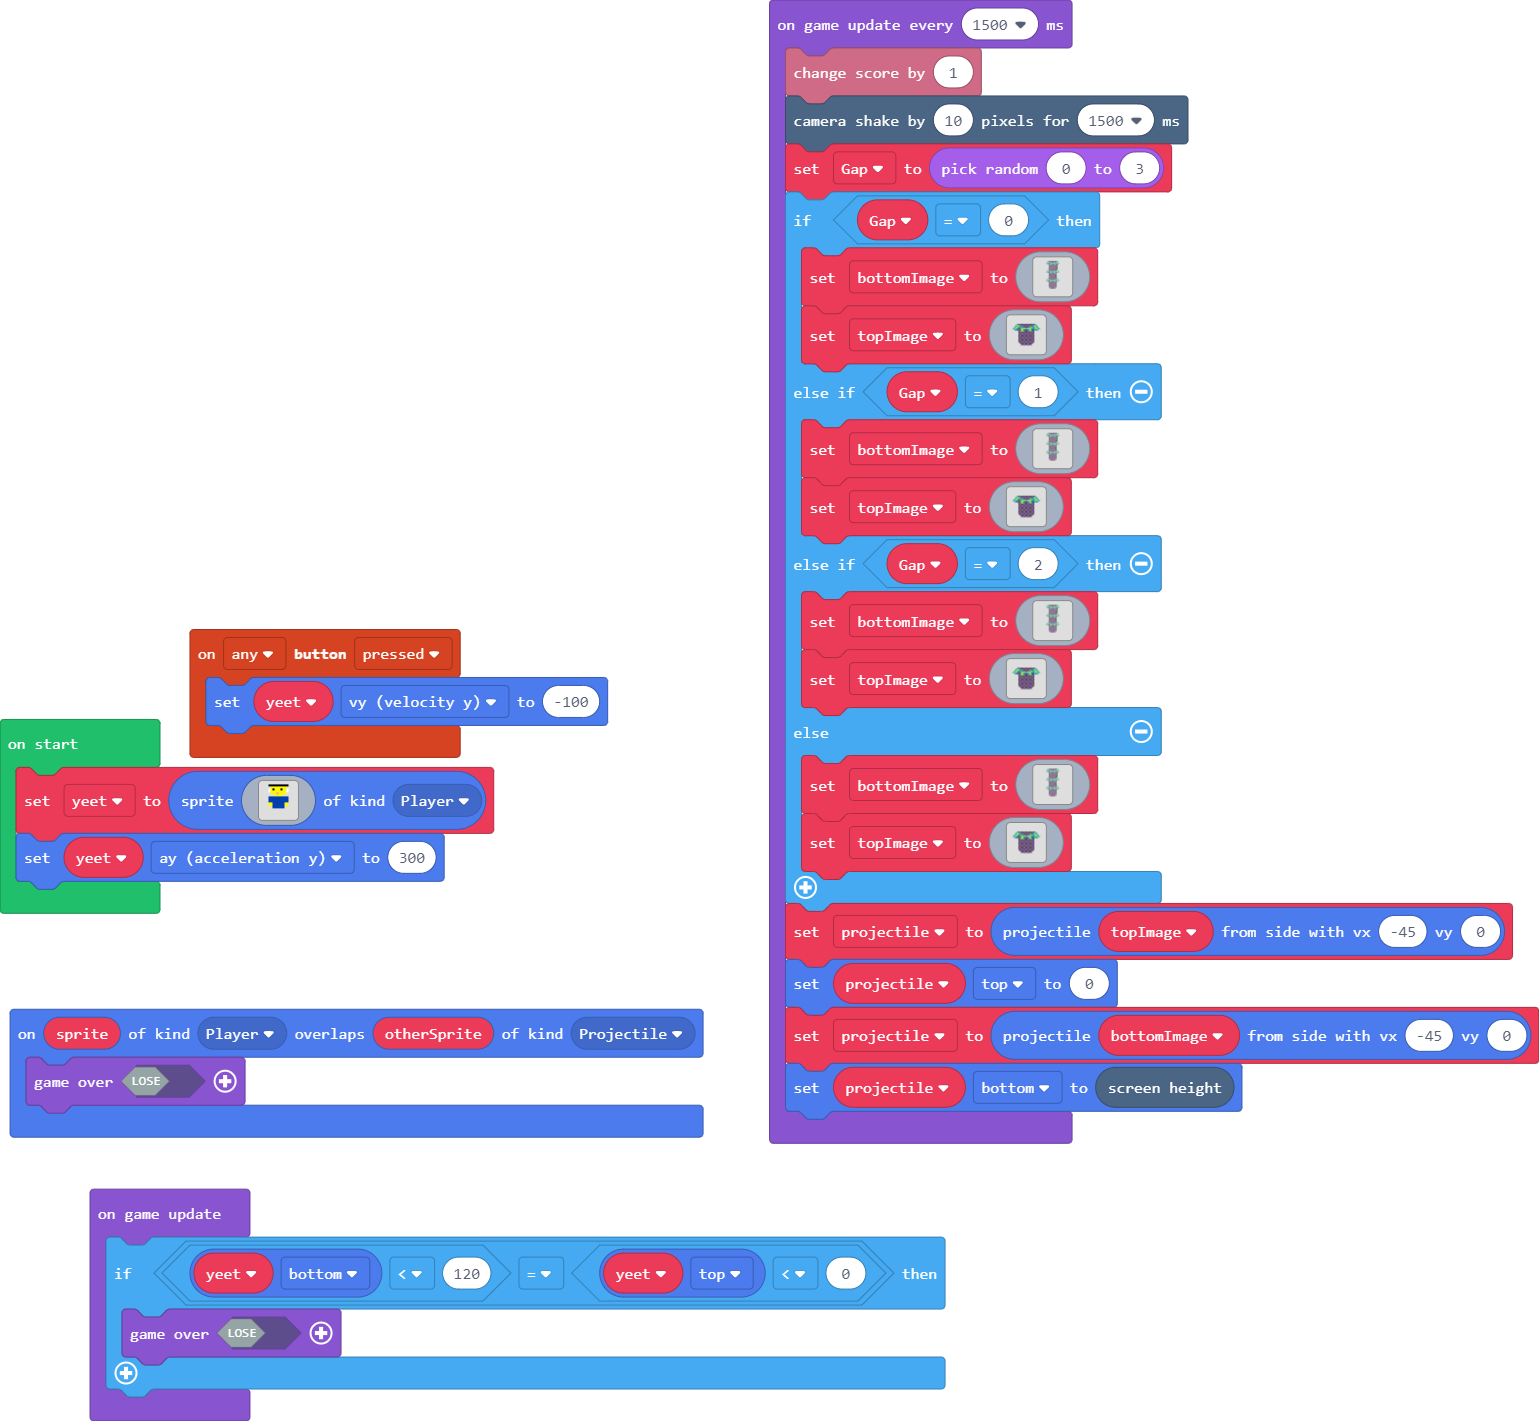
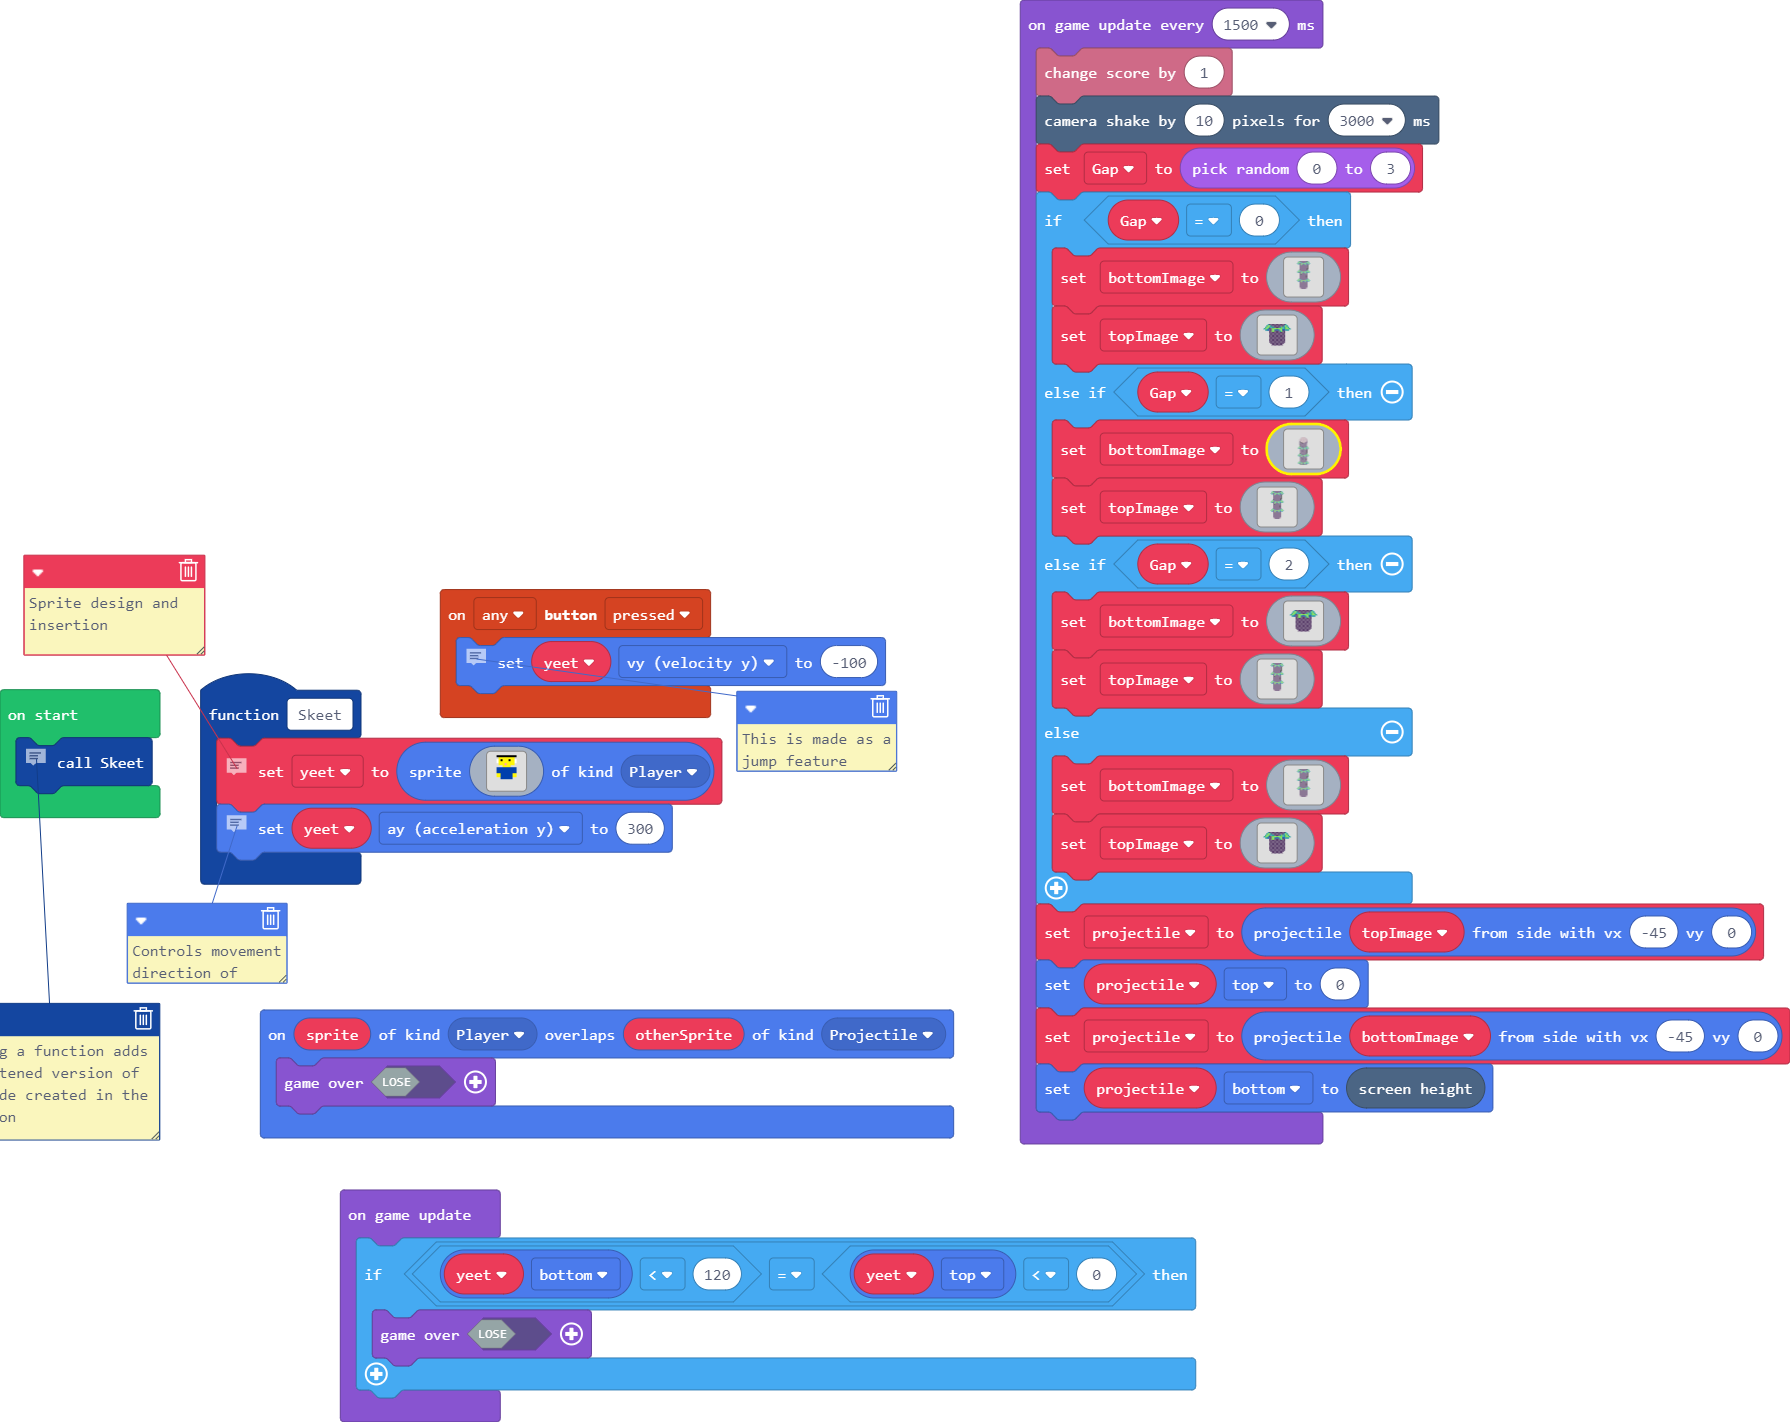
Update main.blocks, main.ts

diff --git a/main.ts b/main.ts
@@ -1,15 +1,6 @@
-sprites.onOverlap(SpriteKind.Player, SpriteKind.Projectile, function (sprite, otherSprite) {
-    game.over(false)
-})
-controller.anyButton.onEvent(ControllerButtonEvent.Pressed, function () {
-    yeet.vy = -100
-})
-let projectile: Sprite = null
-let topImage: Image = null
-let bottomImage: Image = null
-let Gap = 0
-let yeet: Sprite = null
-yeet = sprites.create(img`
+function Skeet () {
+    // Sprite design and insertion
+    yeet = sprites.create(img`
 . . . f f f f f f f f f f . . . 
 . . . . 5 5 5 5 5 5 5 5 . . . . 
 . . . 1 5 f 5 5 5 f 5 5 1 . . . 
@@ -27,10 +18,27 @@ yeet = sprites.create(img`
 . . . . . . . . . . . . . . . . 
 . . . . . . . . . . . . . . . . 
 `, SpriteKind.Player)
-yeet.ay = 300
+    // Controls movement direction of sprite
+    yeet.ay = 300
+}
+sprites.onOverlap(SpriteKind.Player, SpriteKind.Projectile, function (sprite, otherSprite) {
+    game.over(false)
+})
+controller.anyButton.onEvent(ControllerButtonEvent.Pressed, function () {
+    // This is made as a jump feature
+    yeet.vy = -100
+})
+let projectile: Sprite = null
+let topImage: Image = null
+let bottomImage: Image = null
+let Gap = 0
+let yeet: Sprite = null
+// Calling a function adds a shortened version of the
+// code created in the function
+Skeet()
 game.onUpdateInterval(1500, function () {
     info.changeScoreBy(1)
-    scene.cameraShake(10, 1500)
+    scene.cameraShake(10, 3000)
     Gap = Math.randomRange(0, 3)
     if (Gap == 0) {
         bottomImage = img`
@@ -103,6 +111,64 @@ game.onUpdateInterval(1500, function () {
 `
     } else if (Gap == 1) {
         bottomImage = img`
+. . . . . . . . . . . . . . . . . . . . . . . . 
+. . . . . . . . . . . . . . . . . . . . . . . . 
+. . . . . . . . . . . . . . . . . . . . . . . . 
+. . . . . . . . . . . . . . . . . . . . . . . . 
+. . . . . . . . . . . . . . . . . . . . . . . . 
+. . . . . . . . . . . . . . . . . . . . . . . . 
+. . . . . . . . . . . . . . . . . . . . . . . . 
+. . . . . . . . . . b b b b . . . . . . . . . . 
+. . . . . . . . b b d d d d b b . . . . . . . . 
+. . . . . . . b d d b b b b d d b . . . . . . . 
+. . . . . . b d b b d d d d b b d b . . . . . . 
+. . . . . b d b b d b b b b d b b d b . . . . . 
+. . . . . b d b d b d d d d b d b d b . . . . . 
+. . . . . c d b b d b b b b d b b d c . . . . . 
+. . . . . c b d b b d d d d b b d b c . . . . . 
+. . . . . c f b d d b b b b d d b c c . . . . . 
+. . . . . c c f f b d d d d b c c c c . . . . . 
+. . . . . c c c c f f c c c c c c c . . . . . . 
+. . . . . c c c c c c c c c c c c c . . . . . . 
+. . . . . c c c c c c c c c c c c c . . . . . . 
+. . . . . f c c c c c c c c c c c c . . . . . . 
+. . . . . c c c c c c c c c c c c c . . . . . . 
+. . . . . . f c c c c c c c c c c c . . . . . . 
+. . . . . 6 f c c c c c c c c c c c 6 . . . . . 
+. . . . 6 7 7 6 c c c c c c c c c 6 7 6 . . . . 
+. . . 6 7 7 7 6 6 6 c c c c 6 6 6 6 7 7 6 . . . 
+. . 6 7 7 6 8 c 6 7 7 6 6 7 7 7 6 6 7 7 7 6 . . 
+. . . 6 6 8 c c 7 7 6 8 8 6 7 7 8 8 6 6 6 . . . 
+. . . . . . c c 7 7 c c c c 7 7 c c c c . . . . 
+. . . . . . c c 6 c c c c c c 6 c c f . . . . . 
+. . . . . . c c c c c c c c c c c c f . . . . . 
+. . . . . . c c c c c c c c c c c c f . . . . . 
+. . . . . . c c c c c c c c c c c c f . . . . . 
+. . . . . . c c c c c c c c c c c c f . . . . . 
+. . . . . . c c c c c c c c c c c f f . . . . . 
+. . . . . . f c c c c c c c c c c f c . . . . . 
+. . . . . 6 f c c c c c c c c c c f 6 . . . . . 
+. . . . 6 7 7 6 c c c c c c c c c 6 7 6 . . . . 
+. . . 6 7 7 7 6 6 6 c c c c 6 6 6 7 7 7 6 . . . 
+. . 6 7 7 6 c c 6 7 7 7 7 7 7 7 6 6 7 7 7 6 . . 
+. . . 6 6 8 c c 7 7 6 8 8 6 7 7 8 8 6 6 6 . . . 
+. . . . . . c c 7 7 c c c c 6 7 c c . . . . . . 
+. . . . . . c c 6 c c c c c c 6 c c . . . . . . 
+. . . . . . c c f c c c c c c c c c . . . . . . 
+. . . . . . c c c c c c c c c c c c . . . . . . 
+. . . . . . c c c c c c c c c c f c . . . . . . 
+. . . . . . c c c c c c c c c c f c . . . . . . 
+. . . . . . c c c c c c c c c c f c . . . . . . 
+. . . . . . c c c c c c c c c c c c . . . . . . 
+. . . . . 6 c c c c c c c c c c c c 6 . . . . . 
+. . . . 6 7 7 6 c c c c c c c c c 6 7 6 . . . . 
+. . . 6 7 7 6 6 6 6 c c c c 6 7 6 6 7 7 6 . . . 
+. . 6 7 7 6 c c 7 7 7 7 7 7 7 7 6 6 7 7 7 6 . . 
+. . . 6 6 8 c c 7 7 6 8 8 6 7 7 8 8 6 6 6 . . . 
+. . . . . . c c 7 7 c c c c 6 7 c c . . . . . . 
+. . . . . . c c 6 c c c c c c 6 c c . . . . . . 
+`
+        topImage = img`
 . . . . . 6 f c c c c c c c c c c f 6 . . . . . 
 . . . . 6 7 7 6 c c c c c c c c c 6 7 6 . . . . 
 . . . 6 7 7 7 6 6 6 c c c c 6 6 6 7 7 7 6 . . . 
@@ -115,7 +181,7 @@ game.onUpdateInterval(1500, function () {
 . . . . . . c c c c c c c c c c c c f . . . . . 
 . . . . . . c c c c c c c c c c c c f . . . . . 
 . . . . . . c c c c c c c c c c c f f . . . . . 
-. . . . . . c c c c c c c c c c c f c . . . . . 
+. . . . . . f c c c c c c c c c c f c . . . . . 
 . . . . . 6 f c c c c c c c c c c f 6 . . . . . 
 . . . . 6 7 7 6 c c c c c c c c c 6 7 6 . . . . 
 . . . 6 7 7 7 6 6 6 c c c c 6 6 6 7 7 7 6 . . . 
@@ -151,27 +217,27 @@ game.onUpdateInterval(1500, function () {
 . . . . . . . . . . . . . . . . . . . . . . . . 
 . . . . . . . . . . . . . . . . . . . . . . . . 
 . . . . . . . . . . . . . . . . . . . . . . . . 
-`
-        topImage = img`
-. . . . . 6 c c c c c c c c c c c c 6 . . . . . 
-. . . . 6 7 7 6 c c c c c c c c c 6 7 6 . . . . 
-. . . 6 7 7 6 6 6 6 c c c c 6 7 6 6 7 7 6 . . . 
-. . 6 7 7 6 c c 7 7 7 7 7 7 7 7 6 6 7 7 7 6 . . 
-. . . 6 6 8 c c 7 7 6 8 8 6 7 7 8 8 6 6 6 . . . 
-. . . . . . c c 7 7 c c c c 6 7 c c . . . . . . 
-. . . . . . c c c c c c c c c c c c . . . . . . 
-. . . . . . c c c c c c c c c c c c . . . . . . 
-. . . . . . c c c c c c c c c c c c . . . . . . 
-. . . . . . c c c c c c c c c c c c . . . . . . 
-. . . . . . c c c c c c c c c c c c . . . . . . 
-. . . . . . c c c c c c c c c c c c . . . . . . 
-. . . . . . c c c c c c c c c c c c . . . . . . 
-. . . . . . c c c c c c c c c c c c . . . . . . 
-. . . . . . . c c c c c c c c c c . . . . . . . 
-. . . . . . . . c c c c c c c c . . . . . . . . 
 `
     } else if (Gap == 2) {
         bottomImage = img`
+. . . . . 6 c c c c c c c c c c c c 6 . . . . . 
+. . . . 6 7 7 6 c c c c c c c c c 6 7 6 . . . . 
+. . . 6 7 7 6 6 6 6 c c c c 6 7 6 6 7 7 6 . . . 
+. . 6 7 7 6 c c 7 7 7 7 7 7 7 7 6 6 7 7 7 6 . . 
+. . . 6 6 8 c c 7 7 6 8 8 6 7 7 8 8 6 6 6 . . . 
+. . . . . . c c 7 7 c c c c 6 7 c c . . . . . . 
+. . . . . . c c c c c c c c c c c c . . . . . . 
+. . . . . . c c c c c c c c c c c c . . . . . . 
+. . . . . . c c c c c c c c c c c c . . . . . . 
+. . . . . . c c c c c c c c c c c c . . . . . . 
+. . . . . . c c c c c c c c c c c c . . . . . . 
+. . . . . . c c c c c c c c c c c c . . . . . . 
+. . . . . . c c c c c c c c c c c c . . . . . . 
+. . . . . . c c c c c c c c c c c c . . . . . . 
+. . . . . . . c c c c c c c c c c . . . . . . . 
+. . . . . . . . c c c c c c c c . . . . . . . . 
+`
+        topImage = img`
 . . . . . 6 f c c c c c c c c c c f 6 . . . . . 
 . . . . 6 7 7 6 c c c c c c c c c 6 7 6 . . . . 
 . . . 6 7 7 7 6 6 6 c c c c 6 6 6 7 7 7 6 . . . 
@@ -220,24 +286,6 @@ game.onUpdateInterval(1500, function () {
 . . . . . . . . . . . . . . . . . . . . . . . . 
 . . . . . . . . . . . . . . . . . . . . . . . . 
 . . . . . . . . . . . . . . . . . . . . . . . . 
-`
-        topImage = img`
-. . . . . 6 c c c c c c c c c c c c 6 . . . . . 
-. . . . 6 7 7 6 c c c c c c c c c 6 7 6 . . . . 
-. . . 6 7 7 6 6 6 6 c c c c 6 7 6 6 7 7 6 . . . 
-. . 6 7 7 6 c c 7 7 7 7 7 7 7 7 6 6 7 7 7 6 . . 
-. . . 6 6 8 c c 7 7 6 8 8 6 7 7 8 8 6 6 6 . . . 
-. . . . . . c c 7 7 c c c c 6 7 c c . . . . . . 
-. . . . . . c c c c c c c c c c c c . . . . . . 
-. . . . . . c c c c c c c c c c c c . . . . . . 
-. . . . . . c c c c c c c c c c c c . . . . . . 
-. . . . . . c c c c c c c c c c c c . . . . . . 
-. . . . . . c c c c c c c c c c c c . . . . . . 
-. . . . . . c c c c c c c c c c c c . . . . . . 
-. . . . . . c c c c c c c c c c c c . . . . . . 
-. . . . . . c c c c c c c c c c c c . . . . . . 
-. . . . . . . c c c c c c c c c c . . . . . . . 
-. . . . . . . . c c c c c c c c . . . . . . . . 
 `
     } else {
         bottomImage = img`
